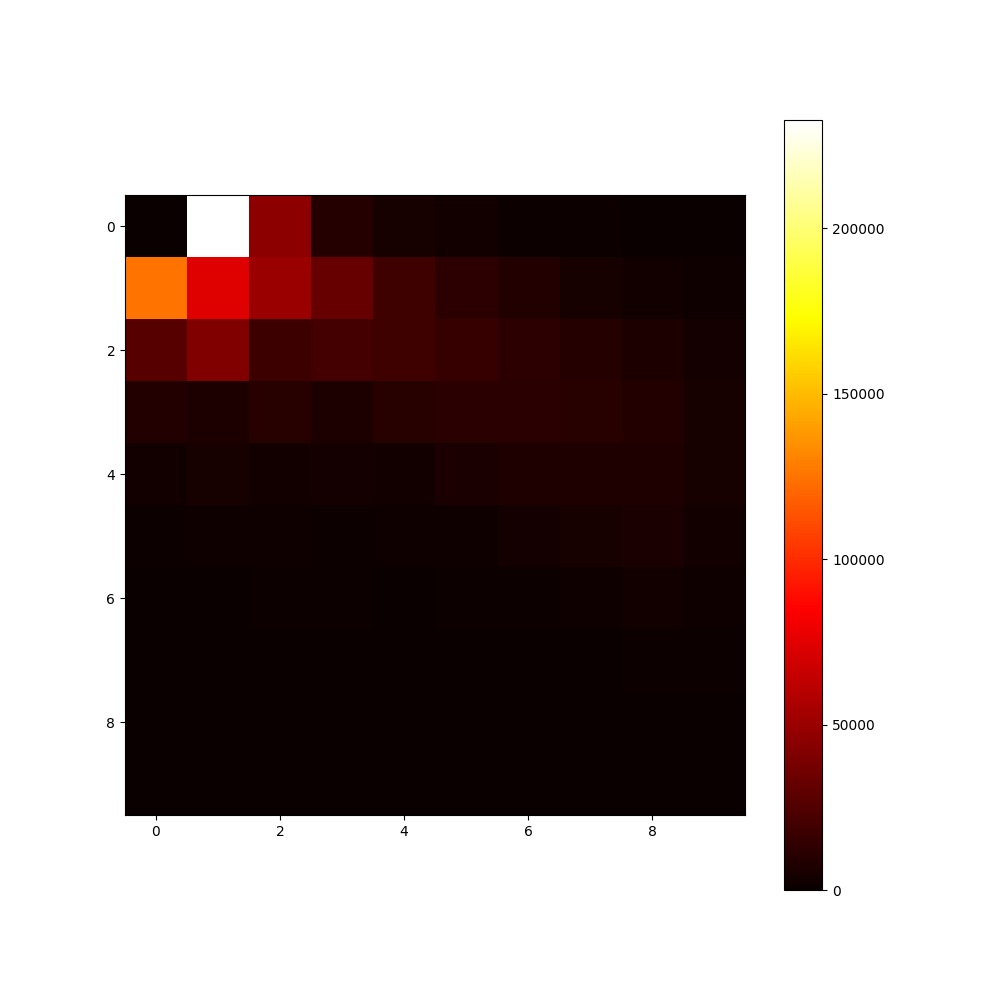
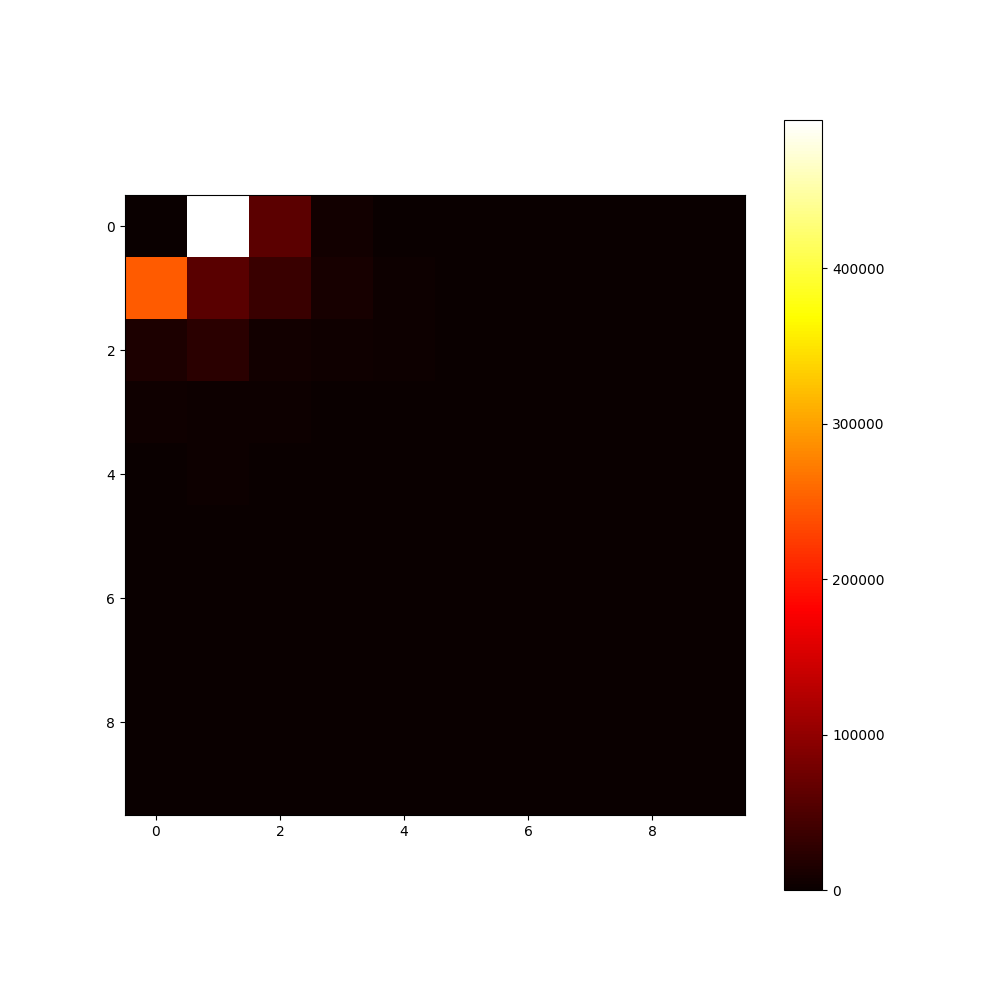
!!

diff --git a/proof_of_work/qlearning/reduced_ql_agent.py b/proof_of_work/qlearning/reduced_ql_agent.py
@@ -1,6 +1,7 @@
 from reduced_environment import Environment as e 
 import matplotlib.pyplot as plt
 import numpy as np
+np.random.seed(0)
 
 class QLearningAgent(object):
     def __init__(self, discount, alpha, T, rho):
@@ -11,9 +12,9 @@ class QLearningAgent(object):
         self.state_count = (T+1) * (T+1)
         self.qvalues = np.zeros((self.state_count, 3))
         self.rho = rho
-        self.initial_learning_rate = 0.99
+        self.initial_learning_rate = 0.995
         self.min_learning_rate = 0.05
-        self.initial_exploration_rate = 0.99
+        self.initial_exploration_rate = 0.995
         self.min_exploration_rate = 0.1
         self.states_visited = np.zeros((self.T+1, self.T+1))
 
@@ -122,8 +123,8 @@ class QLearningAgent(object):
         plt.show()
 
 def main():
-    qlagent = QLearningAgent(discount=0.99, alpha=0.35, T=10, rho=0.36702728271484375)
-    qlagent.runTrial(iterations=int(1000*1000))
+    qlagent = QLearningAgent(discount=1, alpha=1/3, T=9 , rho=0.33657073974609375)
+    qlagent.runTrial(iterations=int(1000*10000))
     qlagent.processPolicy(qlagent.extractPolicy())
     qlagent.plotStatesVisited()
     qlagent.plotLogStatesVisited()

diff --git a/proof_of_work/mdps/transform_reduced.py b/proof_of_work/mdps/transform_reduced.py
@@ -121,7 +121,7 @@ class SelfishMDP(object):
         print(results)
 
 def main():
-    for alpha in [0.35]:
+    for alpha in [0.4]:
         print(alpha)
         mdp = SelfishMDP(alpha=alpha, T=9, epsilon=10e-5)
         mdp.getRhoBounds()

diff --git a/proof_of_work/qlearning/reduced_environment.py b/proof_of_work/qlearning/reduced_environment.py
@@ -1,4 +1,5 @@
 import numpy as np
+np.random.seed(0)
 
 ADOPT = 0
 OVERRIDE = 1
